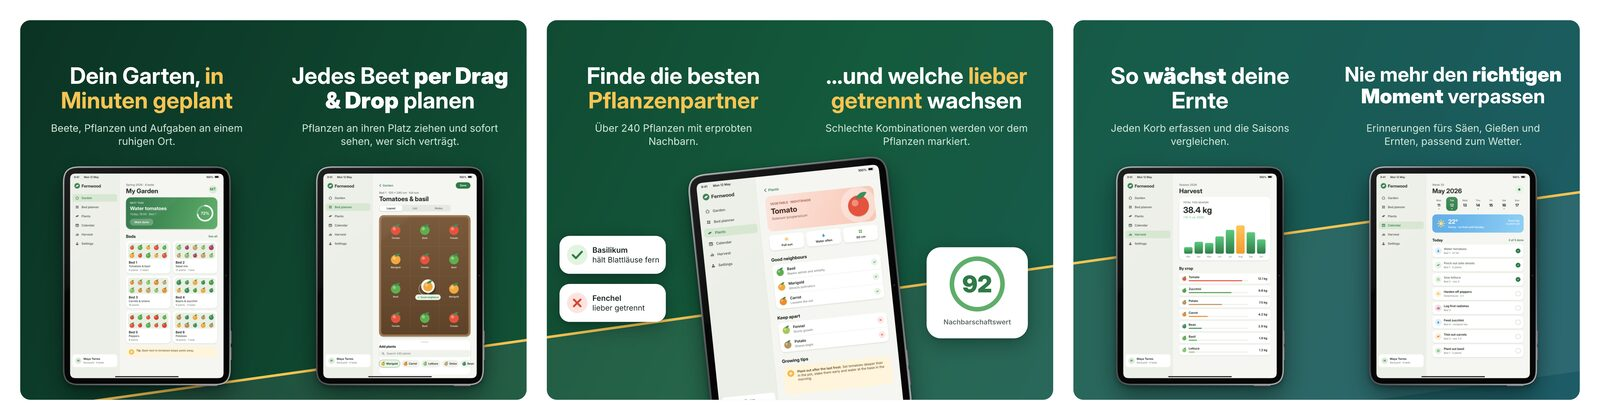
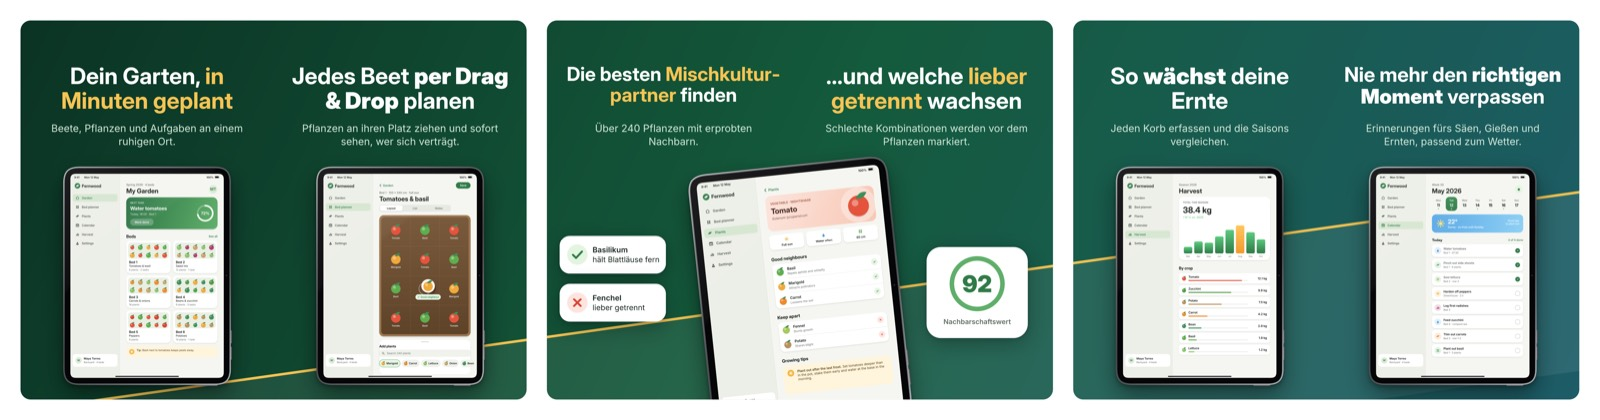
Docs: Phase 3 status, new CLI commands, example previews, guide notes
README: Phase 3 status, strings/import/frames commands, French iPhone
gallery and refreshed German previews. CLAUDE.md: status, CLI usage,
golden languages, scenario test. NOTES: regional fallbacks, severities,
French typography, YAML quoting, hyphenation tuning via language
overrides. Phase 3 plan and STATUS updated (3.7 done except the real
bezel package check).

diff --git a/CLAUDE.md b/CLAUDE.md
@@ -16,10 +16,9 @@ the model, renderer or architecture. The user communicates in German; code,
 comments, commit messages and repo docs are in English.
 
 Status: pre-alpha. Phase 1 (core + CLI) and Phase 2 (GUI editor) are
-complete pending review (`docs/plan/phase-1.md`, `docs/plan/phase-2.md`
-with the known GUI gaps under "Follow-ups"); Phase 3 (store upload) is
-next. See the roadmap in
-KONZEPT.md §12.
+done and reviewed; Phase 3 (languages & import, `docs/plan/phase-3.md`)
+is nearly done. Current state and decisions: `docs/plan/STATUS.md`. See
+the roadmap in KONZEPT.md §12.
 
 ## Core ideas
 
@@ -56,8 +55,9 @@ crates/
 assets/fonts/           bundled OFL fonts (Inter 4.1, embedded by core::layout)
 assets/hyphenation/     hyph-utf8 hyphenation patterns (permissive licences only,
                         see LICENSES.md; embedded by core::layout::hyphen)
-tests/fixtures/example/ example project (all target kinds, en + de) and its
-                        golden reference images (golden/)
+tests/fixtures/example/ example project (all target kinds; en, de, fr, fr-CA
+                        with deliberate fallbacks) and its golden reference
+                        images (golden/)
 docs/KONZEPT.md         concept (binding)
 docs/adr/               architecture decision records
 docs/plan/              task lists per phase
@@ -93,8 +93,8 @@ device frames and browser chrome from the catalog; `text` – glyph outlines
 of `core::layout` results; `export` – page/banner files, gallery previews,
 incremental manifest; plus `paint`/`blur`/`raster` helpers.
 
-`cli` – `arrangia new|render|export|validate|frames` on top of `core` +
-`render` (templates in `core::templates`).
+`cli` – `arrangia new|render|export|validate|strings|import|frames` on
+top of `core` + `render` (templates in `core::templates`).
 
 `core::frame_import` (ADR 0012) – Apple Product Bezels imported by the
 user: package (folder/zip/DMG), name rules in
@@ -196,15 +196,20 @@ CLI usage (`--project <DIR>`, default the current folder): `new <dir>
 [--preview] [--strict] [--format json]`, `render [--target] [--lang]
 [--page N | --image N | --canvas | --gallery] [--width|--max-edge|--scale]
 [-o file]`, `export [--target] [--lang] [--out dir] [--no-gallery]
-[--force] [--format json]`, `frames import <path> [--dry-run]`, `frames
+[--force] [--format json]`, `strings export [--format csv|xliff12|xliff20]
+[--lang] [-o] [--missing-only] [--context]`, `strings import <file>…
+[--dry-run] [--create-keys] [--empty keep|remove]`, `import screenshots
+<dir> [--format auto|arrangia|fastlane|flat] [--device-map|--lang-map|--key-map
+A=B] [--dry-run] [--save-mapping]`, `frames import <path> [--dry-run]`, `frames
 list`, `frames remove [--model] [--color] [--orientation] [--all]`
 (synthetic test package: `cargo run -p arrangia-core --example
 synthetic_bezels -- <dir|file.zip>`). Exit codes: 0 ok, 1 project problems, 2 could
 not run.
 
 Golden tests (`crates/render/tests/golden.rs`) render every output image
-of every target of `tests/fixtures/example` (en, plus de for the iPhone
-set and the blog header) at 25 % and the gallery previews at 320 px, and
+of every target of `tests/fixtures/example` (en, plus `EXTRA_LANGS`: de
+for the iPhone set and the blog header, fr for the iPhone and iPad sets)
+at 25 % and the gallery previews at 320 px, and
 compare them with `tests/fixtures/example/golden/`: a pixel differs above
 8/255 in any channel, an image fails above 0.5 % differing pixels
 (constants at the top of the file). On failure they write `*.actual.png` /
@@ -213,7 +218,9 @@ compare them with `tests/fixtures/example/golden/`: a pixel differs above
 outside the tolerance and delete stale ones. They run in the normal debug
 `cargo test` (dependencies are built with `opt-level = 2`, our crates are
 not; ~7 s on 10 cores). Changing the fixture or the renderer visibly means
-updating the references in the same commit.
+updating the references in the same commit. `crates/cli/tests/scenario.rs`
+is the Phase 3 "done when" check (3 languages × 3 targets exported with
+fallbacks, overflow reported).
 
 Cross-platform tests: paths via `Path::join`, never compare paths as
 strings; line endings are LF (`.gitattributes`), tests reading checked-in

diff --git a/docs/guide/NOTES.md b/docs/guide/NOTES.md
@@ -28,6 +28,8 @@ points under the matching chapter. Keep entries short, concrete, with commands.
 - Grouping `group: 2`: two portrait pages → one landscape image (iPad landscape from the phone canvas).
 - Variants: per-format overrides (position, size, rotation…) while content stays shared. Inspector marks overrides purple.
 - Language overrides: per-language text tweaks (font size, box, style, fit, effects); marked teal in the inspector; `de-AT` inherits `de`.
+- Regional languages (`fr-CA`, `de-AT`, `pt-BR`): fall back automatically to their prefix language (`fr-CA → fr → default`); translate only the keys that differ (example: fr-CA has 2 Québec texts, "jardin communautaire", "cellulaire"). No `languages.fallback` entry needed for prefixes; use it only for non-prefix chains.
+- Fallback severities: text from the default language = warning "not translated" (fails `validate --strict`); text from a prefix/configured fallback = info; screenshot from any fallback = info. A partial screenshot set per language is fine (missing ones come from the fallback chain).
 - Rotation sign: positive = clockwise (CSS convention).
 
 ## 3. How-to notes
@@ -55,6 +57,11 @@ points under the matching chapter. Keep entries short, concrete, with commands.
 - Automatic hyphenation: opt-in (`hyphenate: true`), only kicks in when text doesn't fit even at `shrink_to`. Bundled languages: en-us, en-gb, de (1996), fr, es, nl, it, da, pt, nb/no, fi. Swedish missing (pattern licence LPPL-only, pending project licence decision).
 - Exchange: CSV (Excel variants with BOM/`;` detected) and XLIFF 1.2/2.0; markup becomes protected inline tags so CAT tools don't break it; import shows a dry-run diff and post-import overflow check; one undo step.
 - CSV context column gives element/page/style and an approximate max length.
+- XLIFF/CSV export writes one file per non-default language; a sparse regional language (fr-CA) gets all keys it lacks with `--missing-only`.
+- French typography: put a no-break space (U+00A0) before `:` `;` `?` `!` and inside « guillemets »; also to keep words together on one line ("le bon\u00a0moment"). Line breaking respects it.
+- YAML: a translation containing `: ` (colon + space) or starting with `"`, `[`, `*` must be quoted (`"…"`); the GUI/strings import write correct YAML automatically.
+- Hyphenation tip: auto-fit shrinks first and hyphenates only at `shrink_to`. If a long compound makes a headline shrink too much in one language, raise `shrink_to` for that language with a language override (`langs: {de: {fit: {shrink_to: 78, max_lines: 2}}}`) so hyphenation kicks in earlier; widen the box (`box`) if the break lands at an ugly syllable (it takes the last pattern point that fits: "Mischkul-turpartner" vs "Mischkultur-partner"). Soft hyphen `\-` forces the exact point. Example: `title-companions` in the example project.
+- Validation info `hyphenated` lists every text that was hyphenated automatically per target × language – check those renders.
 
 ### Apple device frames (Apple Design Resources "Product Bezels")
 - User downloads the bezels themselves from developer.apple.com/design/resources; Arrangia never ships or uploads them (Apple licence; License.rtf in the package).
@@ -78,6 +85,8 @@ points under the matching chapter. Keep entries short, concrete, with commands.
 ## 4. Reference notes
 - CLI exit codes: 0 ok, 1 project problems (validation errors / export errors), 2 command could not run.
 - `validate --strict` fails on warnings; `--preview` treats missing screenshots as warnings.
+- Text overflow (`text_overflow`) is an **error** (exit 1) – only the affected language/target; other languages still validate clean.
+- `render --gallery --max-edge N`: N is the image *height* of the gallery, not its long side.
 - Keyboard: arrows nudge 1 lu (⇧ 10), ⌘D duplicate, ⌘G / ⇧⌘G group/ungroup, `[` `]` z-order, ⌘Z/⇧⌘Z, ⌥ disables snapping while dragging, ⇧ free rotation / axis lock, ⌘N/⌘O/⌘E/⌘, menus.
 - Dev bridge (developers only): run the UI in a browser – see CLAUDE.md.
 

diff --git a/README.md b/README.md
@@ -16,14 +16,17 @@ Website: <https://arrangia.app>
 ## Status
 
 **Pre-alpha. Phase 1 (core + command line) and Phase 2 (desktop editor)
-are complete, pending review.** Projects can be created, designed,
-translated, validated and exported in the desktop app, or headless with
-the `arrangia` command line tool; store upload and the MCP server are not
-built yet. The full concept (in German) is in
-[`docs/KONZEPT.md`](docs/KONZEPT.md), the task lists in
-[`docs/plan/phase-1.md`](docs/plan/phase-1.md) and
-[`docs/plan/phase-2.md`](docs/plan/phase-2.md) (with the known gaps of the
-editor under "Follow-ups").
+are complete; Phase 3 (languages & import) is nearly done** – per-language
+text overrides, font fallbacks, opt-in automatic hyphenation, screenshot
+import (fastlane and folder layouts), translation exchange via CSV and
+XLIFF, and imported Apple Product Bezels (still to be verified with the
+real package). Projects can be created, designed, translated, validated
+and exported in the desktop app, or headless with the `arrangia` command
+line tool; store upload and the MCP server are not built yet. The full
+concept (in German) is in [`docs/KONZEPT.md`](docs/KONZEPT.md), the task
+lists in [`docs/plan/`](docs/plan/) (`phase-1.md` … `phase-3.md`, with
+known gaps under "Follow-ups"), the current state in
+[`docs/plan/STATUS.md`](docs/plan/STATUS.md).
 
 ### Desktop editor
 
@@ -43,7 +46,8 @@ export; every change is saved immediately as plain YAML.
 [`tests/fixtures/example`](tests/fixtures/example) is a complete project
 for a fictional garden planner, exported from one YAML file into iPhone,
 Google Play, iPad landscape, Mac App Store, web slides and banner targets
-in English and German. Store gallery previews as Arrangia renders them:
+in English, German, French and Canadian French (which inherits all but
+two texts from French). Store gallery previews as Arrangia renders them:
 
 ![iPhone 6.9" set: one continuous canvas, a phone crossing pages 3 and 4](docs/example/iphone-gallery-en.jpg)
 
@@ -51,6 +55,13 @@ The same phone pages as an iPad landscape set (two pages per image,
 tablet frames, a variant with adjusted positions), in German:
 
 ![iPad 13" landscape set in German](docs/example/ipad-gallery-de.jpg)
+
+In French, with the French app screenshots for the first three pages and
+the English ones as fallback for the rest; the German set above shows a
+language override that lets "Mischkultur-partner" be hyphenated
+automatically instead of shrinking the headline:
+
+![iPhone 6.9" set in French](docs/example/iphone-gallery-fr.jpg)
 
 Mac App Store set and a web app in a browser window and in a notebook
 with browser chrome:
@@ -110,6 +121,18 @@ arrangia render --project my-app --canvas    # preview PNG: --page N | --image N
 arrangia render --project my-app --target play-phone --page 2 --width 400 -o page.png
 arrangia export --project my-app             # all targets × languages into my-app/export/
 arrangia export --target ios-iphone-69 --lang de --force   # --force ignores the incremental cache
+
+# translations for translators (CSV or XLIFF 1.2/2.0; markup becomes protected inline tags)
+arrangia strings export --format xliff20 --lang fr -o translations/   # --format csv --context --missing-only
+arrangia strings import translations/fr.xlf --dry-run                 # report: changed/new/unknown keys, overflows
+
+# screenshots from fastlane snapshot, an Arrangia folder tree or a flat folder
+arrangia import screenshots fastlane/screenshots --dry-run            # --device-map "iPhone 17 Pro Max=ios-phone" --save-mapping
+
+# Apple Product Bezels (downloaded by you; stored app-wide, never in the project)
+arrangia frames import /Volumes/Bezel-iPhone-18 --dry-run             # folder, zip or DMG
+arrangia frames list
+arrangia frames remove --model iphone-island                          # --color, --orientation; --all removes everything
 ```
 
 Exit codes: `0` success (warnings fail only with `validate --strict`), `1`

diff --git a/docs/plan/phase-3.md b/docs/plan/phase-3.md
@@ -46,6 +46,6 @@ Status markers: `[ ]` open · `[~]` in progress · `[x]` done
 - [x] Renaming a used colour/style updates element references
 
 ## 3.7 Verification + docs
-- [ ] Example project gets a third language (e.g. `fr` with partial translations + fallbacks), one per-language override, one hyphenated text; golden tests updated
-- [ ] "Done when" scenario: 3 languages × 3 targets exported, overflow reported; Apple bezels imported and used (with the user's real package)
-- [ ] ADRs (per-language overrides, hyphenation, import rules, frame packages); CLAUDE.md/README
+- [x] Example project gets a third language: `fr` (all texts, French phone screenshots for 3 of 5 screens → en fallback, no-break spaces) plus `fr-CA` (2 Québec texts, rest via prefix fallback → info); German language override + automatic hyphenation on `title-companions` ("Mischkultur-partner"); golden tests: fr for the iPhone 6.9" and iPad sets (+1.1 MB)
+- [~] "Done when" scenario: 3 languages × 3 targets exported with fallbacks, overflow reported (`crates/cli/tests/scenario.rs`) – done; Apple bezels imported and used with the user's real package – open (coordinator/user)
+- [x] ADRs (0009 overrides + hyphenation, 0010 screenshot import, 0011 translation exchange, 0012 frame packages); CLAUDE.md/README updated

diff --git a/docs/plan/STATUS.md b/docs/plan/STATUS.md
@@ -8,7 +8,7 @@ current: update after each phase/merge and whenever the user decides something.
 - Phase 3 (languages & import) in progress – see `docs/plan/phase-3.md`.
   - Done: 3.1 language overrides + font fallback, 3.2 hyphenation, 3.3 screenshot import, 3.4 CSV/XLIFF, 3.5 Apple bezel import (base), 3.6 Phase-2 follow-ups.
   - In progress: 3.5 follow-up (keep all bezel sizes, auto selection, pinning, SLA/licence hints) after the user's real-package test.
-  - Open: 3.7 example project with a 3rd language + goldens, docs.
+  - 3.7 done except the real-package bezel check: example has fr (+ fr-CA sparse), German override + hyphenation, fr goldens (iPhone 6.9", iPad), scenario test `crates/cli/tests/scenario.rs`, README/CLAUDE.md/NOTES updated.
 - Next phases per KONZEPT §12: 4 MCP, 5 store upload, 6 polish/website, 7 3D.
 
 ## How we work
